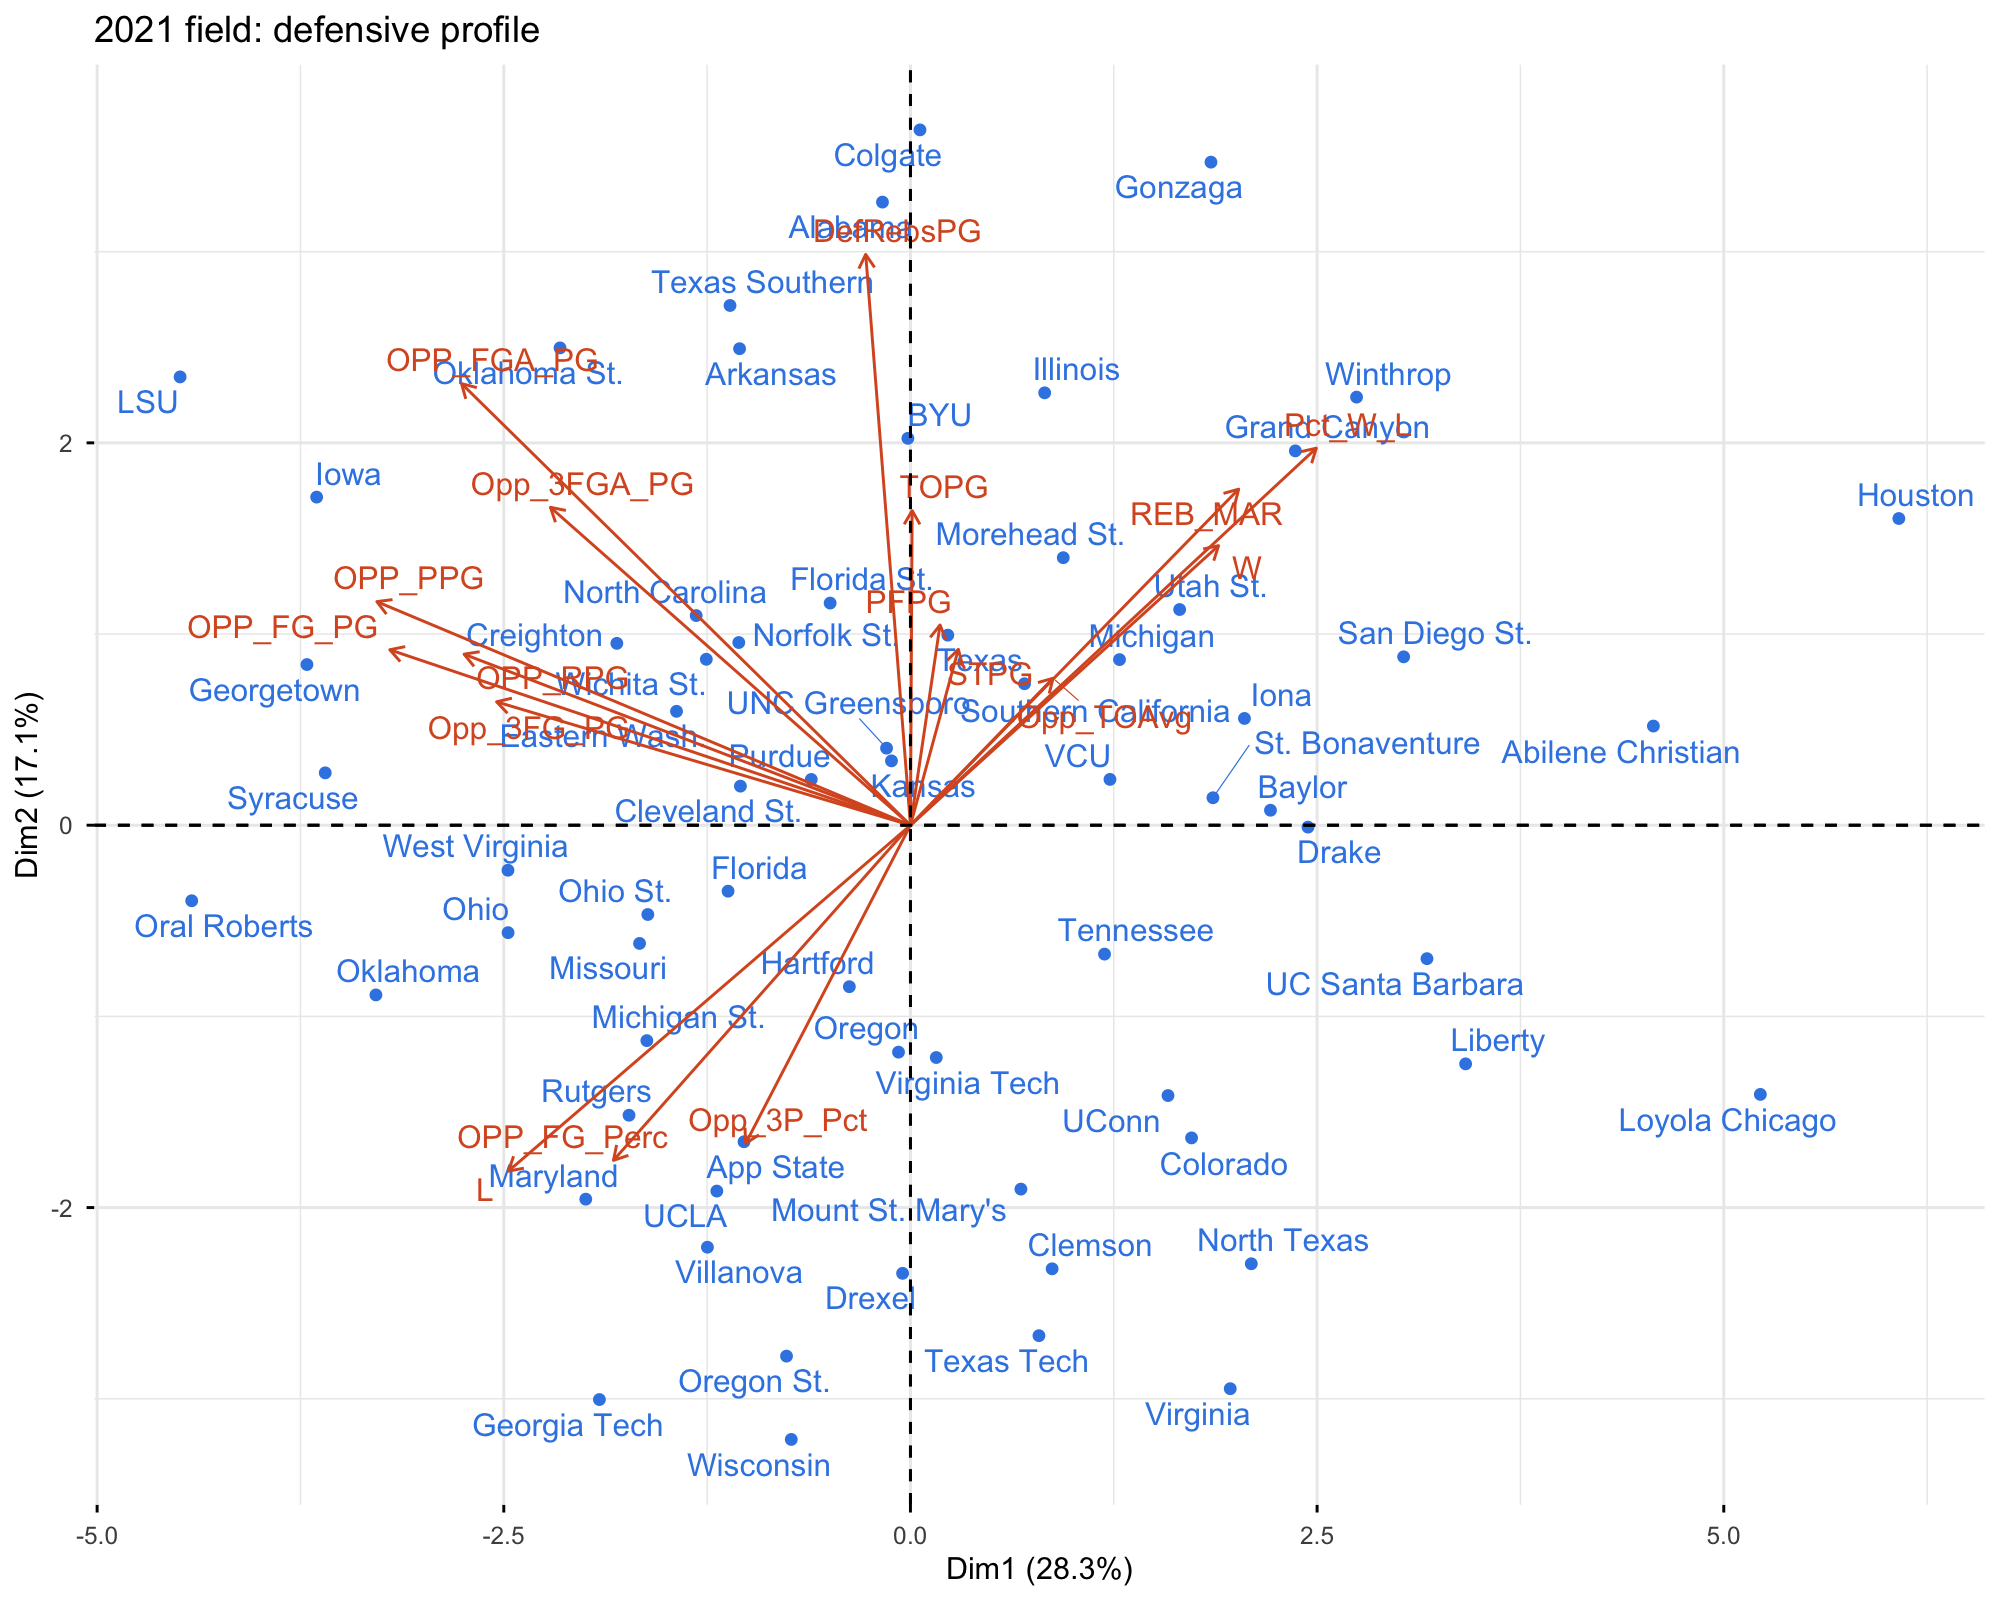
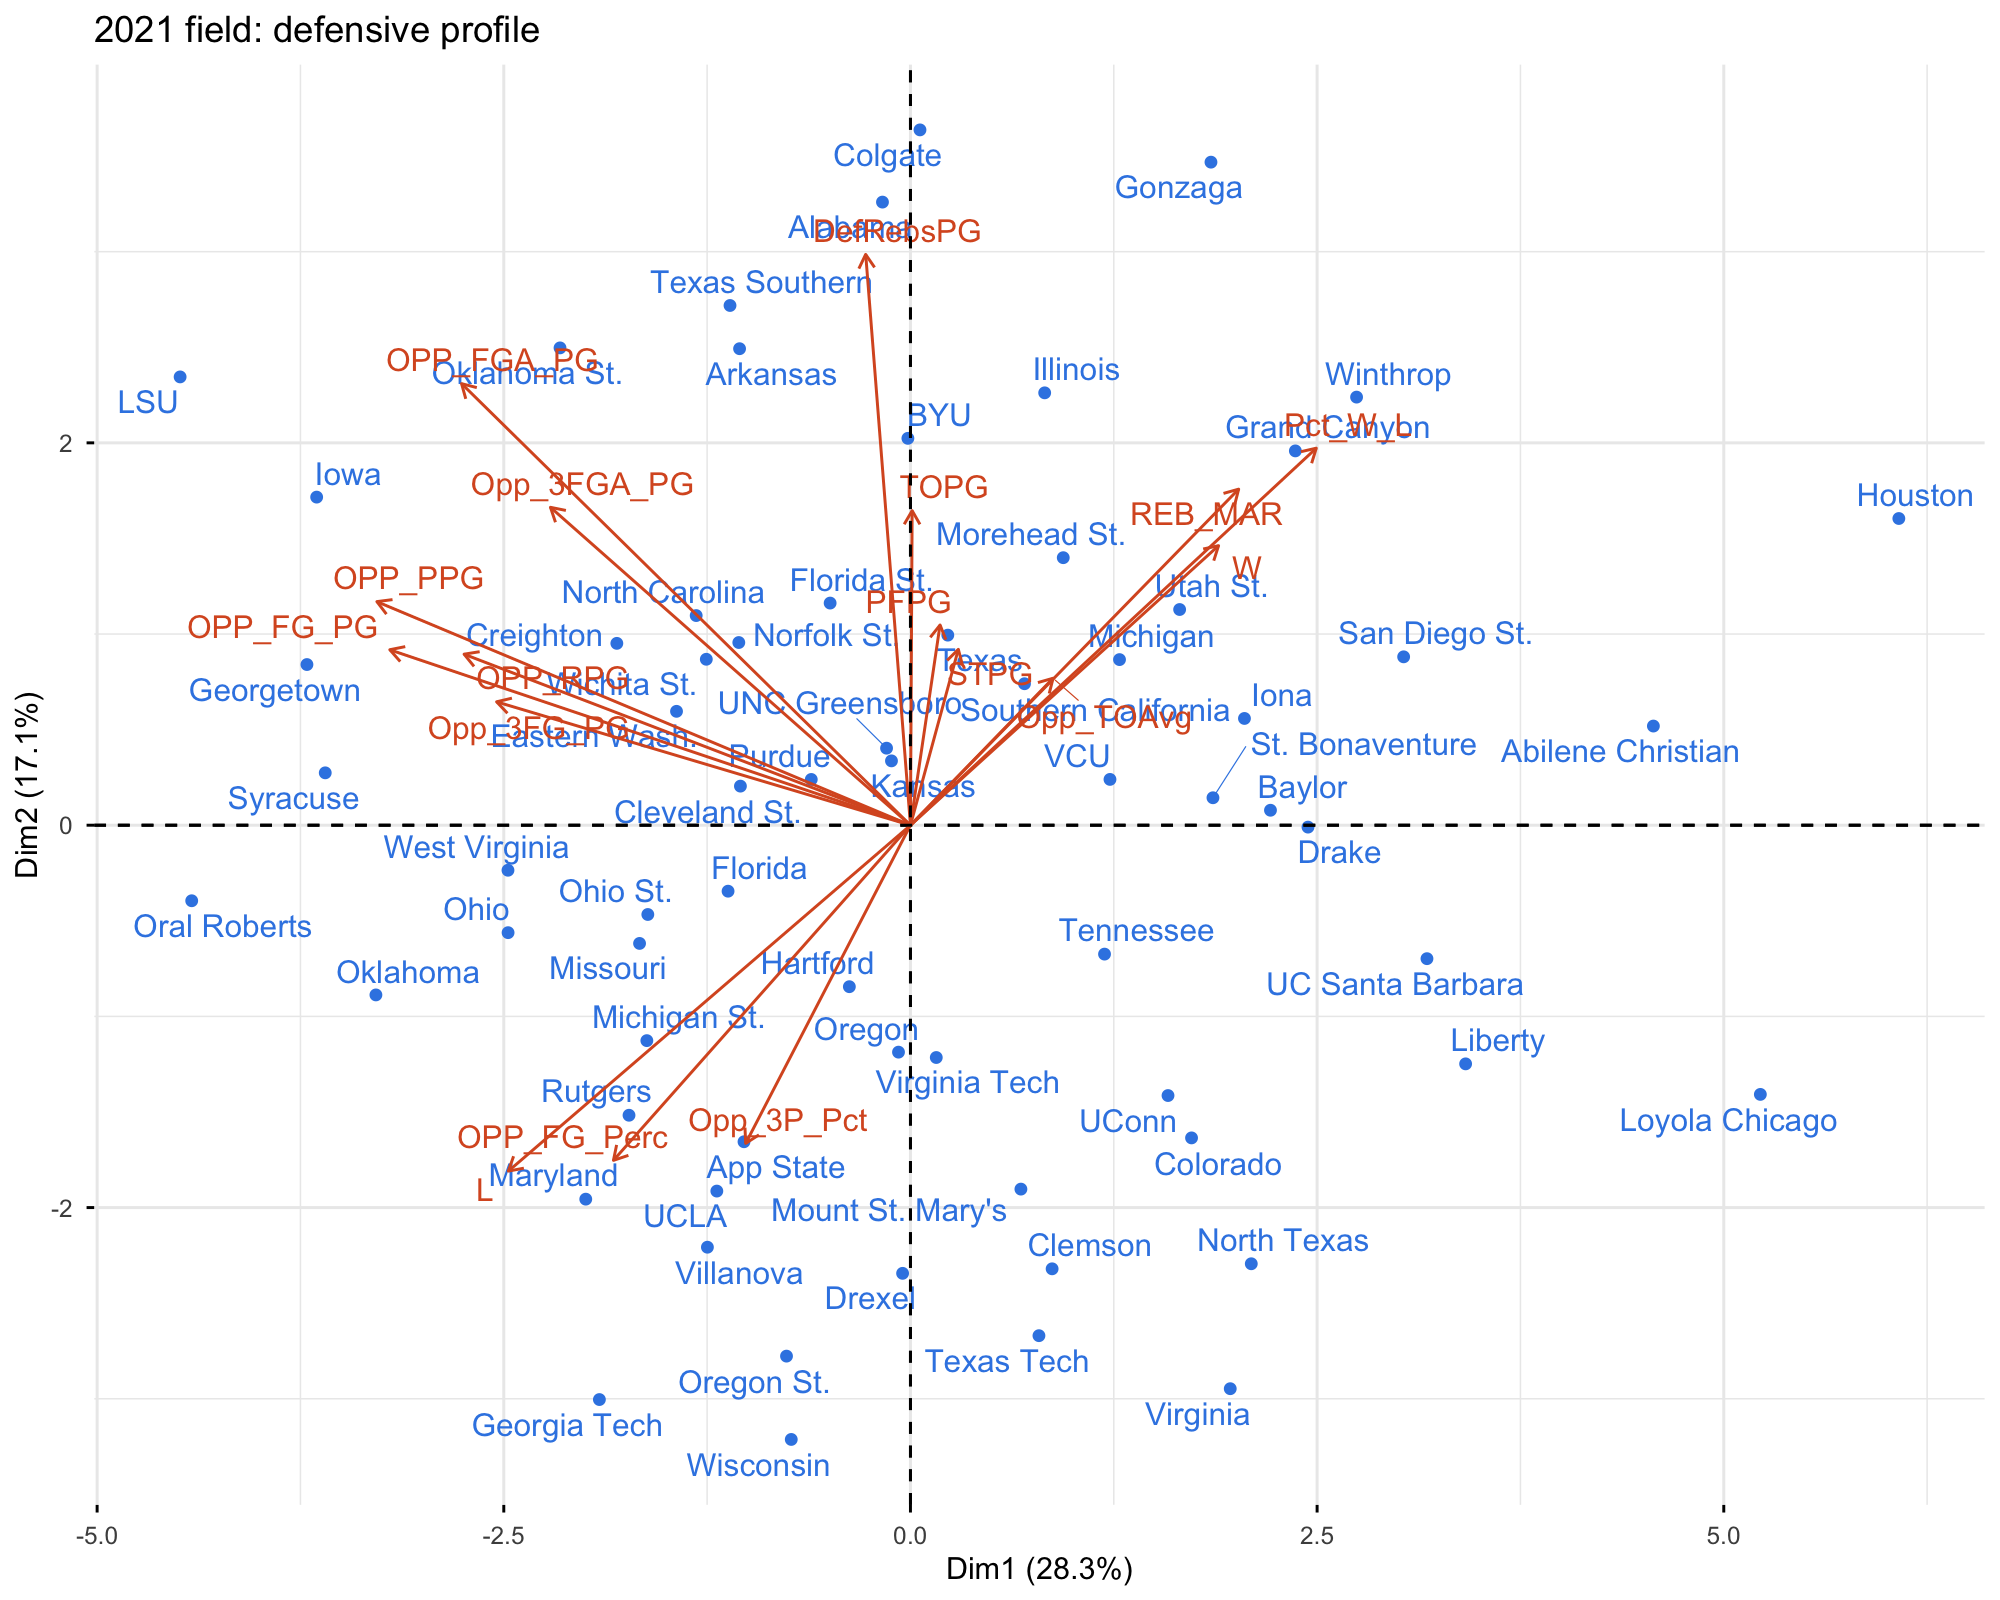
Improve site accessibility and deployment

diff --git a/README.md b/README.md
@@ -30,6 +30,11 @@ Four scripts: load and merge the season stats, run the PCA, turn the components 
 Rscript R/run_all.R
 ```
 
-Run it from the project root. `R/00_setup.R` grabs anything you're missing (`dplyr`, `purrr`, `stringr`, `ggplot2`, `factoextra`, `corrplot`, `Hmisc`, `plotly`, `htmlwidgets`).
+Run it from the project root. `R/00_setup.R` grabs anything you're missing (`dplyr`, `purrr`, `stringr`, `ggplot2`, `factoextra`, `corrplot`, `Hmisc`, `plotly`, `htmlwidgets`, `htmltools`).
 
-You'll get figures in `outputs/figures/` (biplots, correlation plots, the accuracy chart), tables in `data/processed/` (merged stats, team ratings, picks vs. results), and an interactive three-component view at `docs/pca3d.html`.
+You'll get figures in `outputs/figures/` (biplots, correlation plots, the accuracy chart), tables in `data/processed/` (merged stats, team ratings, picks vs. results), and an interactive three-component view at `docs/pca3d.html` with an accessible table at `docs/pca3d-table.html`.
+
+The site in `docs/` is ignored on the main branch and published separately on
+`gh-pages`. The pipeline does not generate `docs/index.html`; retain or restore
+the site files before editing them. Once `docs/` is ready, publish it with
+[`scripts/deploy_site.sh`](./scripts/deploy_site.sh).
